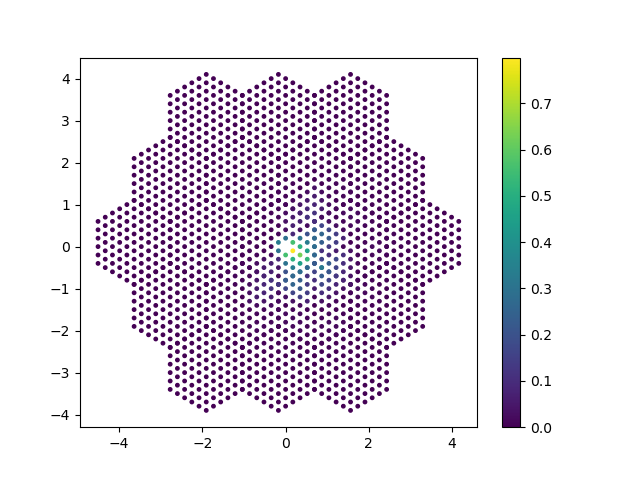
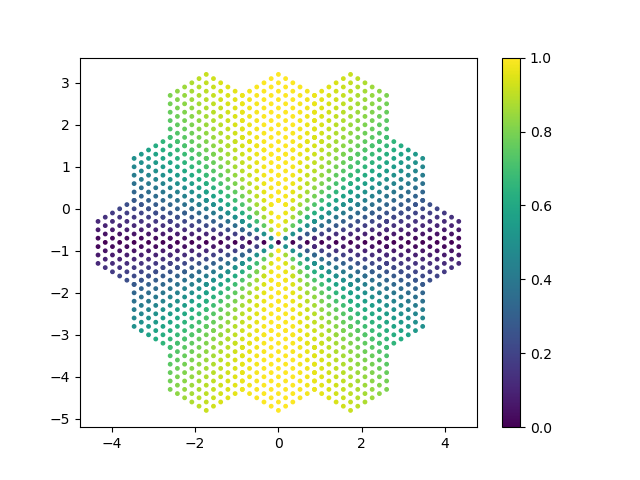
cosas

diff --git a/Mods/Hamiltonian.py b/Mods/Hamiltonian.py
@@ -20,7 +20,7 @@ class Ham_BM_p():
         self.latt=latt
         self.kappa=kappa
         self.PH=PH #particle hole symmetry
-        self.gap=0#1e-8#artificial gap
+        self.gap=0*1e-8#artificial gap
         
         #precomputed momentum lattice and interlayer coupling
        
@@ -149,11 +149,11 @@ class Ham_BM_p():
         pauliy=np.array([[0,-1j],[1j,0]])
         pauliz=np.array([[1,0],[0,-1]])
         
-        H1=hvkd*(np.kron(np.diag(qx_1),tau*paulix)+np.kron(np.diag(qy_1),pauliy)) +np.kron(self.gap*np.eye(Nb),pauliz) # ARITCFICIAL GAP ADDED
-        H2=hvkd*(np.kron(np.diag(qx_2),tau*paulix)+np.kron(np.diag(qy_2),pauliy)) +np.kron(self.gap*np.eye(Nb),pauliz) # ARITCFICIAL GAP ADDED
+        # H1=hvkd*(np.kron(np.diag(qx_1),tau*paulix)+np.kron(np.diag(qy_1),pauliy)) +np.kron(self.gap*np.eye(Nb),pauliz) # ARITCFICIAL GAP ADDED
+        # H2=hvkd*(np.kron(np.diag(qx_2),tau*paulix)+np.kron(np.diag(qy_2),pauliy)) +np.kron(self.gap*np.eye(Nb),pauliz) # ARITCFICIAL GAP ADDED
         
-        # H1=((kx*tau*paulix)+(ky*pauliy)) 
-        # H2=((kx*tau*paulix)+(ky*pauliy)) 
+        H1=((kx*tau*paulix)+(ky*pauliy)) +self.gap*tau*pauliz
+        H2=((kx*tau*paulix)+(ky*pauliy)) +self.gap*tau*pauliz
         
         return [H1,H2]
     
@@ -214,8 +214,8 @@ class Ham_BM_p():
         # T2 = np.array([[w0,w1*zs],[w1*z,w0]])
         # T3 = np.array([[w0,w1*z],[w1*zs,w0]])
 
-        U=self.hvkd*self.alpha*( np.kron(Mdelt1,T1) + np.kron(Mdelt2,T2)+ np.kron(Mdelt3,T3)) #interlayer coupling
-        # U=0*T1
+        # U=self.hvkd*self.alpha*( np.kron(Mdelt1,T1) + np.kron(Mdelt2,T2)+ np.kron(Mdelt3,T3)) #interlayer coupling
+        U=0*T1
         return U
         
     def eigens(self, kx,ky, nbands):
@@ -466,7 +466,7 @@ class Ham_BM_m():
         self.latt=latt
         self.kappa=kappa
         self.PH=PH #particle hole symmetry
-        self.gap=0#1e-8#artificial gap
+        self.gap=0*1e-8#artificial gap
         
         #precomputed momentum lattice and interlayer coupling
        
@@ -593,11 +593,11 @@ class Ham_BM_m():
         pauliy=np.array([[0,-1j],[1j,0]])
         pauliz=np.array([[1,0],[0,-1]])
         
-        H1=hvkd*(np.kron(np.diag(qx_1),tau*paulix)+np.kron(np.diag(qy_1),pauliy)) +np.kron(self.gap*np.eye(Nb),pauliz) # ARITCFICIAL GAP ADDED
-        H2=hvkd*(np.kron(np.diag(qx_2),tau*paulix)+np.kron(np.diag(qy_2),pauliy)) +np.kron(self.gap*np.eye(Nb),pauliz) # ARITCFICIAL GAP ADDED
+        # H1=hvkd*(np.kron(np.diag(qx_1),tau*paulix)+np.kron(np.diag(qy_1),pauliy)) +np.kron(self.gap*np.eye(Nb),pauliz) # ARITCFICIAL GAP ADDED
+        # H2=hvkd*(np.kron(np.diag(qx_2),tau*paulix)+np.kron(np.diag(qy_2),pauliy)) +np.kron(self.gap*np.eye(Nb),pauliz) # ARITCFICIAL GAP ADDED
         
-        # H1=((kx*tau*paulix)+(ky*pauliy)) 
-        # H2=((kx*tau*paulix)+(ky*pauliy)) 
+        H1=((kx*tau*paulix)+(ky*pauliy)) +self.gap*tau*pauliz
+        H2=((kx*tau*paulix)+(ky*pauliy)) +self.gap*tau*pauliz
         
         return [H1,H2]
 
@@ -656,8 +656,8 @@ class Ham_BM_m():
         # T2 = np.array([[w0,w1*zs],[w1*z,w0]])
         # T3 = np.array([[w0,w1*z],[w1*zs,w0]])
 
-        U=self.hvkd*self.alpha*( np.kron(Mdelt1,T1) + np.kron(Mdelt2,T2)+ np.kron(Mdelt3,T3)) #interlayer coupling
-        # U=T1*0
+        # U=self.hvkd*self.alpha*( np.kron(Mdelt1,T1) + np.kron(Mdelt2,T2)+ np.kron(Mdelt3,T3)) #interlayer coupling
+        U=T1*0
         return U
         
     def eigens(self, kx,ky, nbands):

diff --git a/Mods/single_Bubble_ep.py b/Mods/single_Bubble_ep.py
@@ -272,7 +272,7 @@ class ep_Bubble:
             cos1=[]
             cos2=[]
             
-            kp=np.argmin( (self.KQX)**2 +(self.KQY)**2)+10
+            kp=np.argmin( (self.KQX)**2 +(self.KQY)**2)+4
             undet=0
             dosdet=0
             
@@ -311,7 +311,7 @@ class ep_Bubble:
             KP=[]
             cos1=[]
             cos2=[]
-            kp=np.argmin(self.KQX**2 +self.KQY**2)+10
+            kp=np.argmin(self.KQX**2 +self.KQY**2)+4
             for k in range(self.NpoiQ):
                 K.append(self.KQX[k]-self.KQX[kp])
                 KP.append(self.KQY[k]-self.KQY[kp])
@@ -812,8 +812,8 @@ def main() -> int:
     cons=[alpha_ep_effective_tilde,beta_ep_effective_tilde, Wupsilon, a_graphene, mass] #constants used in the bubble calculation and data anlysis
 
 
-    hpl=Hamiltonian.Ham_BM_p(hvkd, alph, 1, lq, kappa, PH, 1) #last argument is whether or not we have interlayer hopping
-    hmin=Hamiltonian.Ham_BM_m(hvkd, alph, -1, lq, kappa, PH, 1 ) #last argument is whether or not we have interlayer hopping
+    hpl=Hamiltonian.Ham_BM_p(hvkd, alph, 1, lq, kappa, PH, 0) #last argument is whether or not we have interlayer hopping
+    hmin=Hamiltonian.Ham_BM_m(hvkd, alph, -1, lq, kappa, PH, 0 ) #last argument is whether or not we have interlayer hopping
     
     #CALCULATING FILLING AND CHEMICAL POTENTIAL ARRAYS
     Ndos=10
